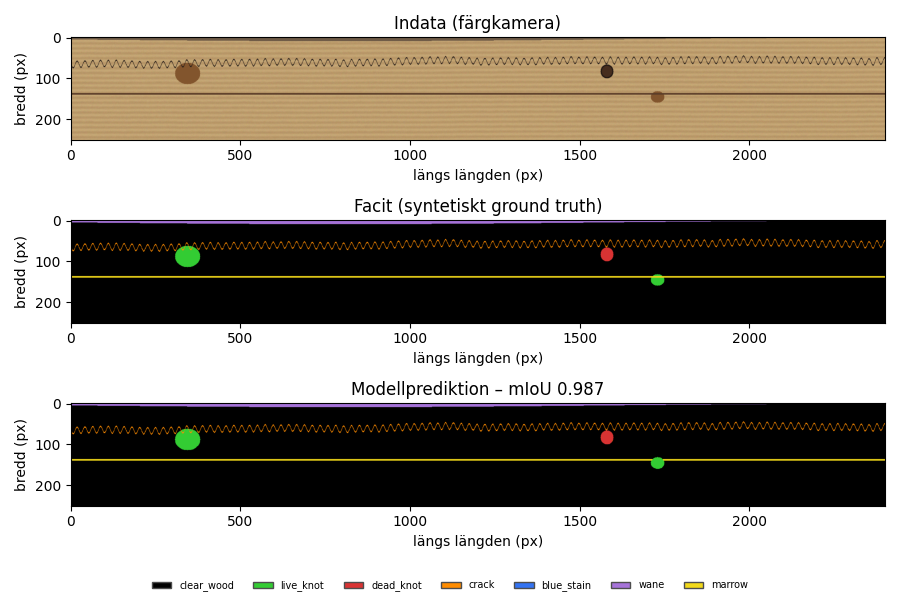
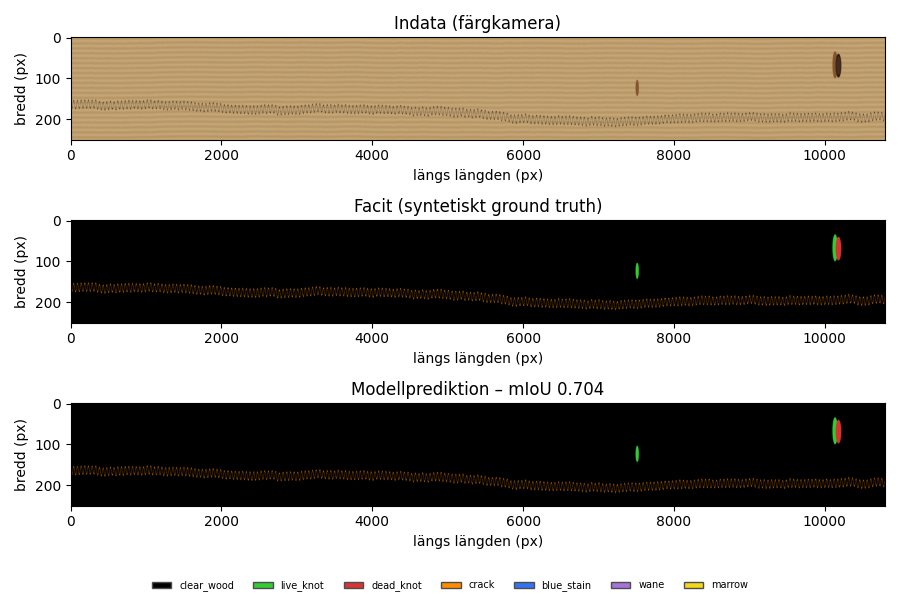
Koppla ihop hela flödet i run_pipeline på samma bräda
run_pipeline kör nu kedjan end-to-end på en och samma osedda full längd-bräda:
  STEG 1 förvärvssimulering -> 2 träning -> 3 segmentering -> 4 kapoptimering.

- Hålldut-brädan är nu 5,4 m (full längd) så kapoptimeringen har material att
  arbeta med; segmenteringen kaklas över hela brädan.
- STEG 4 kör kapoptimeringen på MODELLENS prediktion (inte facit) -> realistiskt
  produktionsflöde -> figur 8.
- Delad plot_cut_plan flyttad till src/cutting.py; run_cutting använder den nu
  också (ingen dubblerad ritkod).

Full körning: val-mIoU 0,972, hel-bräda pixel_acc 0,999; kapplan på prediktionen
2,7C+2,4C = 230 kr (+70 % mot naiv längsta-först).

diff --git a/run_cutting.py b/run_cutting.py
@@ -2,23 +2,17 @@
 
 Genererar en full längd-bräda, tar dess kvalitetsprofil (segmenteringens
 prediktion om en checkpoint finns, annars facit), kör DP-optimeringen och ritar
-kapplanen: brädan med kapsnitt, varje bits klass/längd/värde samt spill.
+kapplanen (figur 8). För hela kedjan tränad -> segmenterad -> kapad i en körning,
+se run_pipeline.py.
 
 Kör:  python run_cutting.py [--length-m 5.4] [--seed 7]
 """
 import argparse
 from pathlib import Path
 
-import numpy as np
-import matplotlib
-matplotlib.use("Agg")
-import matplotlib.pyplot as plt
-from matplotlib.patches import Patch
-
 from src.config import CutConfig, SegConfig
 from src.board import make_board
-from src.cutting import (optimize_cuts, greedy_plan, defect_fraction_per_row,
-                         format_plan, GRADE_COLORS)
+from src.cutting import optimize_cuts, greedy_plan, format_plan, plot_cut_plan
 from src.infer import find_checkpoint, load_model, predict_board
 
 OUT = Path(__file__).resolve().parent / "outputs"
@@ -27,58 +21,11 @@ MM_PER_PX = 0.5
 
 def quality_map(board):
     """Kvalitetsprofil att kapa efter: modellens prediktion om möjligt, annars facit."""
-    cfg = SegConfig()
-    ckpt = find_checkpoint(cfg)
+    ckpt = find_checkpoint(SegConfig())
     if ckpt is not None:
         model, mcfg = load_model(str(ckpt))
         return predict_board(model, board, mcfg), "segmenteringsmodell"
     return board["label"], "facit"
-
-
-def fig_cut_plan(board, plan, naive, source, path):
-    color = board["color"].astype(np.float32) / 255.0
-    H, W = board["label"].shape
-    dev = defect_fraction_per_row(board["label"])
-    x_mm = np.arange(H) * board["mm_per_px"]
-
-    fig, axes = plt.subplots(2, 1, figsize=(11, 5),
-                             gridspec_kw={"height_ratios": [2, 1]})
-
-    # Övre: brädan (längden vågrätt) + kapplan
-    axes[0].imshow(np.transpose(color, (1, 0, 2)), aspect="auto",
-                   extent=(0, H * board["mm_per_px"] / 1000, 0, W))
-    for pc in plan["pieces"]:
-        x0, x1 = pc["start_mm"] / 1000, pc["end_mm"] / 1000
-        axes[0].axvspan(x0, x1, color=GRADE_COLORS[pc["grade"]], alpha=0.32)
-        axes[0].axvline(x0, color="k", lw=1.2)
-        axes[0].axvline(x1, color="k", lw=1.2)
-        axes[0].text((x0 + x1) / 2, W * 0.5,
-                     f"{pc['length_m']:.1f} m\nklass {pc['grade']}\n{pc['value']:.0f} kr",
-                     ha="center", va="center", fontsize=8, weight="bold")
-    axes[0].set_yticks([])
-    axes[0].set_xlabel("position längs brädan (m)")
-    gain = plan["total_value"] - naive["total_value"]
-    axes[0].set_title(f"Kapplan ({source}) – totalt {plan['total_value']:.0f} kr "
-                      f"(+{gain:.0f} kr mot naiv längsta-först), "
-                      f"utbyte {plan['yield_frac']*100:.0f} %, "
-                      f"spill {plan['waste_mm']/1000:.2f} m")
-
-    # Undre: defektandel längs brädan (visar varför kapen ligger där de ligger)
-    axes[1].fill_between(x_mm / 1000, dev, color="#c0392b", alpha=0.5)
-    for pc in plan["pieces"]:
-        axes[1].axvspan(pc["start_mm"] / 1000, pc["end_mm"] / 1000,
-                        color=GRADE_COLORS[pc["grade"]], alpha=0.18)
-    axes[1].set_xlim(0, H * board["mm_per_px"] / 1000)
-    axes[1].set_ylabel("defektandel")
-    axes[1].set_xlabel("position längs brädan (m)")
-    axes[1].grid(alpha=0.3)
-
-    handles = [Patch(facecolor=GRADE_COLORS[g], edgecolor="0.3", label=f"klass {g}")
-               for g in ("A", "B", "C", "reject")]
-    fig.legend(handles=handles, loc="lower center", ncol=4, fontsize=8, frameon=False)
-    fig.tight_layout(rect=(0, 0.05, 1, 1))
-    fig.savefig(path, dpi=100)
-    plt.close(fig)
 
 
 def main():
@@ -101,7 +48,7 @@ def main():
     print(f"Naiv (längsta-först): {naive['total_value']:.0f} kr  "
           f"-> optimering ger +{gain:.0f} kr ({pct:+.0f} %)")
     fig_path = OUT / "8_cut_plan.png"
-    fig_cut_plan(board, plan, naive, source, fig_path)
+    plot_cut_plan(board, label, plan, naive, source, fig_path)
     print(f"Figur skriven: {fig_path}")
 
 

diff --git a/run_pipeline.py b/run_pipeline.py
@@ -1,9 +1,11 @@
-"""Hela flödet end-to-end: förvärv -> syntetisk data -> träning -> inferens.
+"""Hela flödet end-to-end på samma bräda.
 
 Steg:
   1. Förvärvsspec (radtakt, dataflöde) + de tre förvärvsfigurerna (run_demo).
   2. Tränar segmenteringsnätet på syntetiska brädor (CPU-verifierbart).
-  3. Kör inferens på en osedd bräda och jämför facit mot modellens prediktion.
+  3. Segmenterar en osedd full längd-bräda och jämför facit mot prediktionen.
+  4. Kapoptimerar utifrån modellens prediktion: var brädan ska sågas för
+     maximalt värde (figur 8).
 
 Resultatfigurer hamnar i outputs/. Kör::
 
@@ -23,14 +25,16 @@ import matplotlib.pyplot as plt
 from matplotlib.patches import Patch
 
 import run_demo
-from src.config import LineConfig, SegConfig, CLASSES, CLASS_COLORS
+from src.config import LineConfig, SegConfig, CutConfig, CLASSES, CLASS_COLORS
 from src.metrics import print_table
 from src.board import make_board
 from src.train import fit
 from src.losses import ConfusionMatrix
 from src.infer import load_model, predict_board, colorize, find_checkpoint
+from src.cutting import optimize_cuts, greedy_plan, format_plan, plot_cut_plan
 
-HELD_OUT_SEED = 12345  # bräda som varken tränings- eller valmängden har sett
+HELD_OUT_SEED = 12345    # bräda som varken tränings- eller valmängden har sett
+HELD_OUT_LENGTH_M = 5.4  # full längd så kapoptimeringen har något att arbeta med
 
 
 def _show(ax, img):
@@ -90,9 +94,9 @@ def main():
         model, cfg = load_model(str(ckpt))
 
     print("\n" + "=" * 64)
-    print("STEG 3 – Inferens på osedd bräda + jämförelse mot facit")
+    print("STEG 3 – Segmentering av osedd full längd-bräda + jämförelse mot facit")
     print("=" * 64)
-    board = make_board(length_mm=cfg.board_length_mm, width_mm=cfg.board_width_mm,
+    board = make_board(length_mm=HELD_OUT_LENGTH_M * 1000, width_mm=cfg.board_width_mm,
                        mm_per_px=cfg.mm_per_px, seed=HELD_OUT_SEED)
     color, gt = board["color"], board["label"]
     pred = predict_board(model, board, cfg)
@@ -103,11 +107,24 @@ def main():
               torch.from_numpy(gt.astype(np.int64))[None])
     miou = cm.mean_iou()
     print(f"Hel-bräda mIoU (osedd): {miou:.3f}  pixel_acc: {cm.pixel_acc():.3f}")
+    fig_segmentation(color, gt, pred, miou, out / "4_segmentation.png")
+    print(f"Figur skriven: {out / '4_segmentation.png'}")
 
-    fig_path = out / "4_segmentation.png"
-    fig_segmentation(color, gt, pred, miou, fig_path)
-    print(f"Figur skriven: {fig_path}")
-    print("\nKlart – hela flödet kört.")
+    print("\n" + "=" * 64)
+    print("STEG 4 – Kapoptimering på modellens prediktion")
+    print("=" * 64)
+    ccfg = CutConfig()
+    plan = optimize_cuts(pred, board["mm_per_px"], ccfg)   # kapa efter modellen
+    naive = greedy_plan(pred, board["mm_per_px"], ccfg)
+    print(format_plan(plan))
+    gain = plan["total_value"] - naive["total_value"]
+    pct = 100 * gain / naive["total_value"] if naive["total_value"] else 0
+    print(f"Naiv (längsta-först): {naive['total_value']:.0f} kr  "
+          f"-> optimering ger +{gain:.0f} kr ({pct:+.0f} %)")
+    plot_cut_plan(board, pred, plan, naive, "segmenteringsmodell",
+                  out / "8_cut_plan.png")
+    print(f"Figur skriven: {out / '8_cut_plan.png'}")
+    print("\nKlart – hela flödet kört: förvärv -> segmentering -> kapplan.")
 
 
 if __name__ == "__main__":

diff --git a/src/cutting.py b/src/cutting.py
@@ -139,6 +139,60 @@ def defect_fraction_per_row(label: np.ndarray, n_classes: int = 7) -> np.ndarray
     return (label != 0).mean(1)
 
 
+def plot_cut_plan(board: dict, label: np.ndarray, plan: dict, naive: dict,
+                  source: str, path) -> None:
+    """Ritar kapplanen: brädan med kapsnitt + bitarnas klass/längd/värde, och en
+    defektkurva som visar varför kapen ligger där de gör. Lazy matplotlib-import
+    så att kärnan i modulen kan användas utan plottberoenden."""
+    import matplotlib
+    matplotlib.use("Agg")
+    import matplotlib.pyplot as plt
+    from matplotlib.patches import Patch
+
+    color = board["color"].astype(np.float32) / 255.0
+    H, W = label.shape
+    mm = board["mm_per_px"]
+    board_m = H * mm / 1000.0
+    dev = defect_fraction_per_row(label)
+    x_m = np.arange(H) * mm / 1000.0
+
+    fig, axes = plt.subplots(2, 1, figsize=(11, 5),
+                             gridspec_kw={"height_ratios": [2, 1]})
+    axes[0].imshow(np.transpose(color, (1, 0, 2)), aspect="auto",
+                   extent=(0, board_m, 0, W))
+    for pc in plan["pieces"]:
+        x0, x1 = pc["start_mm"] / 1000, pc["end_mm"] / 1000
+        axes[0].axvspan(x0, x1, color=GRADE_COLORS[pc["grade"]], alpha=0.32)
+        axes[0].axvline(x0, color="k", lw=1.2)
+        axes[0].axvline(x1, color="k", lw=1.2)
+        axes[0].text((x0 + x1) / 2, W * 0.5,
+                     f"{pc['length_m']:.1f} m\nklass {pc['grade']}\n{pc['value']:.0f} kr",
+                     ha="center", va="center", fontsize=8, weight="bold")
+    axes[0].set_yticks([])
+    axes[0].set_xlabel("position längs brädan (m)")
+    gain = plan["total_value"] - naive["total_value"]
+    axes[0].set_title(f"Kapplan ({source}) – totalt {plan['total_value']:.0f} kr "
+                      f"(+{gain:.0f} kr mot naiv längsta-först), "
+                      f"utbyte {plan['yield_frac']*100:.0f} %, "
+                      f"spill {plan['waste_mm']/1000:.2f} m")
+
+    axes[1].fill_between(x_m, dev, color="#c0392b", alpha=0.5)
+    for pc in plan["pieces"]:
+        axes[1].axvspan(pc["start_mm"] / 1000, pc["end_mm"] / 1000,
+                        color=GRADE_COLORS[pc["grade"]], alpha=0.18)
+    axes[1].set_xlim(0, board_m)
+    axes[1].set_ylabel("defektandel")
+    axes[1].set_xlabel("position längs brädan (m)")
+    axes[1].grid(alpha=0.3)
+
+    handles = [Patch(facecolor=GRADE_COLORS[g], edgecolor="0.3", label=f"klass {g}")
+               for g in ("A", "B", "C", "reject")]
+    fig.legend(handles=handles, loc="lower center", ncol=4, fontsize=8, frameon=False)
+    fig.tight_layout(rect=(0, 0.05, 1, 1))
+    fig.savefig(path, dpi=100)
+    plt.close(fig)
+
+
 def format_plan(plan: dict) -> str:
     lines = [f"Kapplan: {len(plan['pieces'])} bitar, totalvärde "
              f"{plan['total_value']:.0f} kr, utbyte {plan['yield_frac']*100:.0f} %"]

diff --git a/README.md b/README.md
@@ -38,8 +38,9 @@ pip install -r requirements.txt
 
 python run_demo.py        # bara förvärvssimuleringen (numpy + matplotlib)
 python run_sensors.py     # fotometrisk stereo, tracheid, undersida (figur 5–7)
-python run_cutting.py     # kapoptimering: var ska brädan sågas (figur 8)
-python run_pipeline.py    # hela flödet: förvärv -> data -> träning -> inferens
+python run_cutting.py     # kapoptimering fristående: var ska brädan sågas (figur 8)
+python run_pipeline.py    # hela flödet på samma bräda: förvärv -> träning ->
+                          # segmentering -> kapoptimering (figur 4 + 8)
 python run_pipeline.py --smoke   # minimal rökverifiering på sekunder
 
 python -m src.train             # träna bara modellen (full config)
@@ -77,8 +78,8 @@ src/underside.py     undersida + ocklusion från kedjespringorna
 src/cutting.py       kapoptimering (DP) + kvalitetsklassning och värdemodell
 run_demo.py          kör förvärvssimuleringen och genererar figur 1–3
 run_sensors.py       genererar sensorfigurerna 5–7
-run_cutting.py       kapoptimering på en hel bräda och genererar figur 8
-run_pipeline.py      hela flödet end-to-end och genererar figur 4
+run_cutting.py       fristående kapoptimering på en hel bräda (figur 8)
+run_pipeline.py      hela flödet på samma bräda: segmentering + kapplan (fig 4+8)
 run_ablation.py      ablation: nyttan av sensorkanalerna som modellingång
 ```
 
